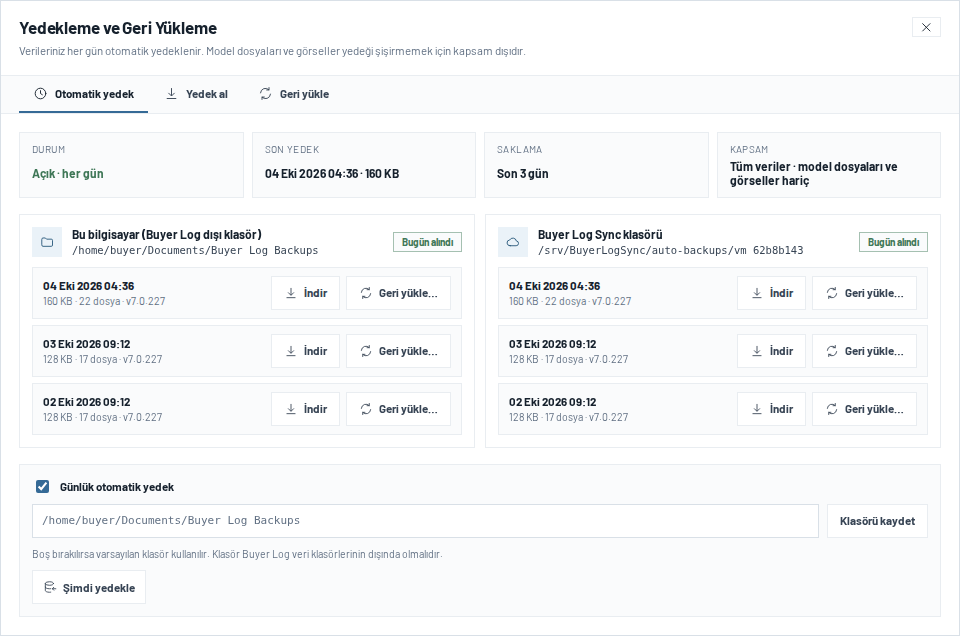
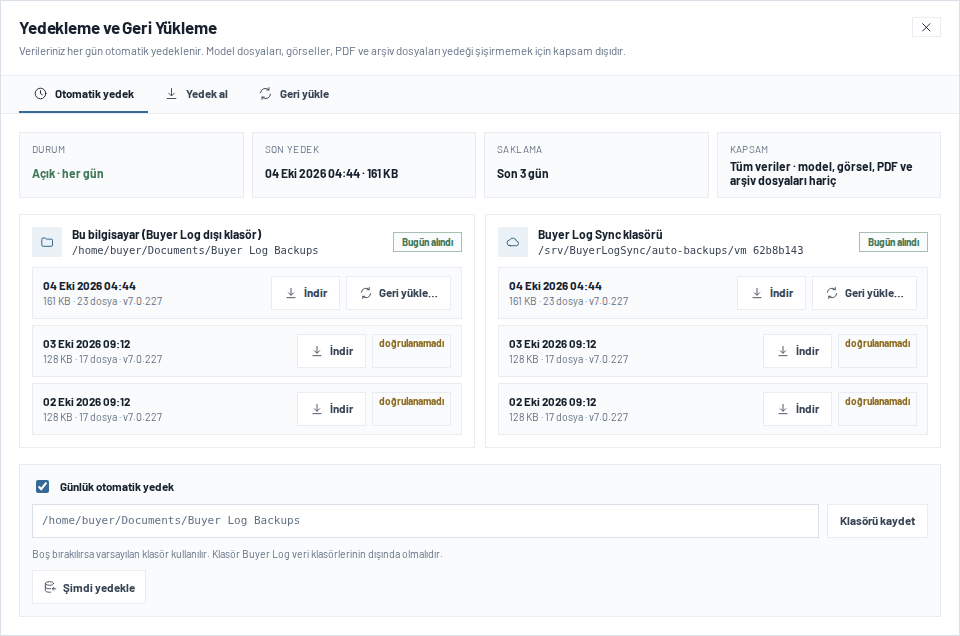
Harden backup/restore v2 after review
- Local DB, WAL and safety copies are one restore component and are always
  cleared together, so a live WAL can never be replayed over an older
  snapshot; selecting every area falls back to full mirror restore.
- Archive entries outside the backup scope (images/PDF/archives/cache in
  backups made before this change) are neither listed nor applied, so
  restore never writes files the rollback snapshot does not cover.
- Top-level matching is case-insensitive on Windows.
- Auto backup run/settings/download/restore-from-list are moderator-only;
  status hides folder paths and errors from other users.
- Restore-from-list accepts only archives this device produced, verified by
  the sha256 recorded at backup time (planted/tampered files are rejected).
- Personal backup folder must be local (no network share) and is
  re-validated on use; a full restore cannot start while an auto backup is
  running; settings changed during a run are no longer overwritten; a
  sync-only failure retries every 6h instead of hourly.
- UI/notes state that PDF and archive files are excluded as well.

Claude-Session: https://claude.ai/code/session_01KseQMyLJveKFWtzF5XKGiv

diff --git a/resources/app/public/backup-manager.js b/resources/app/public/backup-manager.js
@@ -131,6 +131,8 @@ function buyerLogBackupModal(options = {}) {
   document.getElementById('_buyerLogBackupModal')?.remove();
   const moderator = Boolean(window.BLIsModerator && window.BLIsModerator());
   const canManage = moderator || (typeof window.BLHasPermission === 'function' && window.BLHasPermission('manageBackup'));
+  // Otomatik yedek bu bilgisayarın tam sistem yedeğidir; yönetimi moderatöre aittir.
+  const autoManage = moderator;
   const st = buyerLogBackupFreshState();
   buyerLogBackupState.tab = options.tab || buyerLogBackupState.tab || 'auto';
   if (!moderator && !canManage) buyerLogBackupState.restoreKind = 'user';
@@ -153,7 +155,7 @@ function buyerLogBackupModal(options = {}) {
     if (!data.configured) body = `<div class="blBkEmpty">${key === 'sync' ? T('Buyer Log Sync klasörü bağlı değil. Data Management üzerinden Sync klasörünü seçtiğinizde yedekler buraya da yazılır.','Buyer Log Sync folder is not connected. Once you select it in Data Management, backups are written there too.') : T('Klasör hazırlanamadı.','Folder is not ready.')}</div>`;
     else if (data.error) body = `<div class="blBkEmpty is-error">${buyerLogBackupEsc(data.error)}</div>`;
     else if (!data.backups.length) body = `<div class="blBkEmpty">${T('Henüz otomatik yedek yok. İlk yedek bugün içinde otomatik alınır.','No automatic backup yet. The first one is taken automatically today.')}</div>`;
-    else body = `<ul class="blBkList">${data.backups.map(item => `<li><div class="blBkListMain"><b>${buyerLogBackupEsc(buyerLogBackupDate(item.createdAt))}</b><small>${buyerLogRestoreBytes(item.bytes)}${item.fileCount ? ` · ${Number(item.fileCount).toLocaleString()} ${T('dosya','files')}` : ''}${item.appVersion ? ` · v${buyerLogBackupEsc(item.appVersion)}` : ''}</small></div>${canManage ? `<div class="blBkListActions"><button class="tbtn" type="button" data-auto-download="${key}|${buyerLogBackupEsc(item.filename)}" title="${T('İndir','Download')}"><svg class="ic"><use href="#i-download"/></svg><span>${T('İndir','Download')}</span></button><button class="tbtn" type="button" data-auto-restore="${key}|${buyerLogBackupEsc(item.filename)}"><svg class="ic"><use href="#i-refresh"/></svg><span>${T('Geri yükle…','Restore…')}</span></button></div>` : ''}</li>`).join('')}</ul>`;
+    else body = `<ul class="blBkList">${data.backups.map(item => `<li><div class="blBkListMain"><b>${buyerLogBackupEsc(buyerLogBackupDate(item.createdAt))}</b><small>${buyerLogRestoreBytes(item.bytes)}${item.fileCount ? ` · ${Number(item.fileCount).toLocaleString()} ${T('dosya','files')}` : ''}${item.appVersion ? ` · v${buyerLogBackupEsc(item.appVersion)}` : ''}</small></div>${autoManage ? `<div class="blBkListActions"><button class="tbtn" type="button" data-auto-download="${key}|${buyerLogBackupEsc(item.filename)}" title="${T('İndir','Download')}"><svg class="ic"><use href="#i-download"/></svg><span>${T('İndir','Download')}</span></button>${item.verifiable ? `<button class="tbtn" type="button" data-auto-restore="${key}|${buyerLogBackupEsc(item.filename)}"><svg class="ic"><use href="#i-refresh"/></svg><span>${T('Geri yükle…','Restore…')}</span></button>` : `<em class="blBkBadge is-locked" title="${T('Bu cihaz tarafından üretildiği doğrulanamadı; indirip dosyadan geri yükleyebilirsiniz.','Could not be verified as produced by this device; download it and restore from file.')}">${T('doğrulanamadı','unverified')}</em>`}</div>` : ''}</li>`).join('')}</ul>`;
     const folder = data.folder ? `<code class="blBkPath" title="${buyerLogBackupEsc(data.folder)}">${buyerLogBackupEsc(data.folder)}</code>` : '';
     const ok = data.lastSuccessDay && st.auto.data && data.lastSuccessDay === st.auto.data.today;
     return `<article class="blBkTarget"><header><span class="blBkTargetIcon"><svg class="ic"><use href="#${icon}"/></svg></span><div><b>${title}</b>${folder}</div><span class="blBkPill ${ok ? 'is-ok' : (data.configured ? 'is-wait' : 'is-off')}">${ok ? T('Bugün alındı','Done today') : (data.configured ? T('Bekliyor','Pending') : T('Bağlı değil','Not connected'))}</span></header>${body}</article>`;
@@ -172,7 +174,7 @@ function buyerLogBackupModal(options = {}) {
         <div class="blBkStat"><span>${T('Durum','Status')}</span><b class="${data.enabled ? 'is-ok' : 'is-off'}">${data.enabled ? T('Açık · her gün','On · daily') : T('Kapalı','Off')}</b></div>
         <div class="blBkStat"><span>${T('Son yedek','Last backup')}</span><b>${buyerLogBackupEsc(lastText)}</b></div>
         <div class="blBkStat"><span>${T('Saklama','Retention')}</span><b>${T(`Son ${data.retentionDays} gün`, `Last ${data.retentionDays} days`)}</b></div>
-        <div class="blBkStat"><span>${T('Kapsam','Scope')}</span><b>${T('Tüm veriler · model dosyaları ve görseller hariç','All data · model files & images excluded')}</b></div>
+        <div class="blBkStat"><span>${T('Kapsam','Scope')}</span><b>${T('Tüm veriler · model, görsel, PDF ve arşiv dosyaları hariç','All data · model, image, PDF & archive files excluded')}</b></div>
       </div>
       ${lastErrors.length ? `<div class="blBkAlert is-error">${lastErrors.map(buyerLogBackupEsc).join('<br>')}</div>` : ''}
       ${a.message ? `<div class="blBkAlert">${buyerLogBackupEsc(a.message)}</div>` : ''}
@@ -180,12 +182,12 @@ function buyerLogBackupModal(options = {}) {
         ${autoTargetHtml('local', data.targets && data.targets.local, T('Bu bilgisayar (Buyer Log dışı klasör)','This computer (folder outside Buyer Log)'), 'i-folder')}
         ${autoTargetHtml('sync', data.targets && data.targets.sync, T('Buyer Log Sync klasörü','Buyer Log Sync folder'), 'i-cloud')}
       </div>
-      ${canManage ? `<div class="blBkSettings">
+      ${autoManage ? `<div class="blBkSettings">
         <label class="blBkSwitch"><input type="checkbox" data-auto-enabled ${data.enabled ? 'checked' : ''} ${a.busy ? 'disabled' : ''}/><span>${T('Günlük otomatik yedek','Daily automatic backup')}</span></label>
         <div class="blBkFolderRow"><input type="text" data-auto-folder placeholder="${buyerLogBackupEsc(data.defaultLocalFolder)}" value="${buyerLogBackupEsc(folderValue)}" aria-label="${T('Yedek klasörü','Backup folder')}"/><button class="tbtn" type="button" data-auto-folder-save ${a.busy ? 'disabled' : ''}>${T('Klasörü kaydet','Save folder')}</button></div>
         <small class="blBkHint">${T('Boş bırakılırsa varsayılan klasör kullanılır. Klasör Buyer Log veri klasörlerinin dışında olmalıdır.','Leave empty to use the default folder. The folder must be outside Buyer Log data folders.')}</small>
         <div class="blBkActions"><button class="navActionBtn" type="button" data-auto-run ${a.busy || data.running ? 'disabled' : ''}><svg class="ic"><use href="#i-database-import"/></svg><span>${a.busy || data.running ? T('Yedekleniyor…','Backing up…') : T('Şimdi yedekle','Back up now')}</span></button></div>
-      </div>` : `<div class="blBkHint">${T('Otomatik yedek ayarlarını yalnız yedek yönetme yetkisi olan kullanıcılar değiştirebilir.','Only users with backup permission can change automatic backup settings.')}</div>`}`;
+      </div>` : `<div class="blBkHint">${T('Otomatik yedek ayarlarını ve listeden geri yüklemeyi yalnız moderatör yönetebilir.','Only the moderator can manage automatic backup settings and restore from the list.')}</div>`}`;
   }
 
   // ---- Yedek al -----------------------------------------------------------
@@ -210,7 +212,7 @@ function buyerLogBackupModal(options = {}) {
           <div class="blBkActions"><button class="navActionBtn" type="button" data-backup-mode="user" ${b.busy ? 'disabled' : ''}><svg class="ic"><use href="#i-download"/></svg><span>${T('Verilerimi Yedekle','Back Up My Data')}</span></button></div>
         </article>
         <div class="blBkStack">
-          ${moderator ? `<article class="blBkCard"><header><b>${T('Tam Sistem Yedeği','Full System Backup')}</b></header><p class="blBkHint">${T('Bu bilgisayardaki tüm Buyer Log verisi, kullanıcı/rol yapısı ve ayarlar tek ZIP olarak indirilir. Model dosyaları ve görseller boyutu şişirmemek için yedeğe alınmaz.','All Buyer Log data on this computer, the user/role structure and settings are downloaded as one ZIP. Model files and images are excluded to keep the size small.')}</p><div class="blBkActions"><button class="tbtn" type="button" data-backup-mode="full" ${b.busy ? 'disabled' : ''}><svg class="ic"><use href="#i-database-import"/></svg><span>${T('Tam Sistem Yedeği','Full System Backup')}</span></button></div></article>` : ''}
+          ${moderator ? `<article class="blBkCard"><header><b>${T('Tam Sistem Yedeği','Full System Backup')}</b></header><p class="blBkHint">${T('Bu bilgisayardaki tüm Buyer Log verisi, kullanıcı/rol yapısı ve ayarlar tek ZIP olarak indirilir. Model dosyaları, görseller, PDF ve arşiv dosyaları boyutu şişirmemek için yedeğe alınmaz.','All Buyer Log data on this computer, the user/role structure and settings are downloaded as one ZIP. Model files, images, PDF and archive files are excluded to keep the size small.')}</p><div class="blBkActions"><button class="tbtn" type="button" data-backup-mode="full" ${b.busy ? 'disabled' : ''}><svg class="ic"><use href="#i-database-import"/></svg><span>${T('Tam Sistem Yedeği','Full System Backup')}</span></button></div></article>` : ''}
           <article class="blBkCard backupSharedPanel"><div><b>${T('Ortak kişisel yedek','Shared personal backup')}</b><div data-shared-personal-status>${buyerLogBackupEsc(sharedText)}</div></div><div class="backupRestoreActions"><button class="tbtn" type="button" data-shared-personal-now ${shared.busy ? 'disabled' : ''}>${T('Şimdi güncelle','Back up now')}</button>${sd && sd.available && sd.latest ? `<button class="tbtn" type="button" data-shared-personal-download>${T('Ortak yedeği indir','Download shared backup')}</button>` : ''}</div></article>
         </div>
       </div>
@@ -273,7 +275,7 @@ function buyerLogBackupModal(options = {}) {
     ];
     const scrollTop = modal.querySelector('.blBkBody') ? modal.querySelector('.blBkBody').scrollTop : 0;
     modal.innerHTML = `<div class="modalCard backupCard blBkCard2" role="dialog" aria-modal="true" aria-labelledby="_backupTitle">
-      <div class="backupHead"><div><div class="modalTitle" id="_backupTitle">${T('Yedekleme ve Geri Yükleme','Backup & Restore')}</div><div class="backupIntro">${T('Verileriniz her gün otomatik yedeklenir. Model dosyaları ve görseller yedeği şişirmemek için kapsam dışıdır.','Your data is backed up automatically every day. Model files and images are excluded to keep backups small.')}</div></div><button class="pricingRuleIconBtn _backupClose" type="button" aria-label="${T('Kapat','Close')}"><svg class="ic"><use href="#i-x"/></svg></button></div>
+      <div class="backupHead"><div><div class="modalTitle" id="_backupTitle">${T('Yedekleme ve Geri Yükleme','Backup & Restore')}</div><div class="backupIntro">${T('Verileriniz her gün otomatik yedeklenir. Model dosyaları, görseller, PDF ve arşiv dosyaları yedeği şişirmemek için kapsam dışıdır.','Your data is backed up automatically every day. Model files, images, PDF and archive files are excluded to keep backups small.')}</div></div><button class="pricingRuleIconBtn _backupClose" type="button" aria-label="${T('Kapat','Close')}"><svg class="ic"><use href="#i-x"/></svg></button></div>
       <div class="blBkTabs" role="tablist">${tabs.map(item => `<button type="button" role="tab" data-backup-tab="${item.id}" aria-selected="${tab === item.id}" class="${tab === item.id ? 'active' : ''}"><svg class="ic"><use href="#${item.icon}"/></svg><span>${item.label}</span></button>`).join('')}</div>
       <div class="backupBody blBkBody">${tab === 'auto' ? autoPanel() : tab === 'backup' ? backupPanel() : restorePanel()}</div>
     </div>`;

diff --git a/resources/app/server/lib/auto-backup.js b/resources/app/server/lib/auto-backup.js
@@ -19,11 +19,16 @@ const os = require('os');
 const crypto = require('crypto');
 const { safeId } = require('./backup-service');
 const { atomicCopy } = require('./shared-personal-backup');
+const { isNetworkPath } = require('./local-path-policy');
 
 const STATE_SCHEMA_VERSION = 1;
 const DEFAULT_RETENTION_DAYS = 3;
 const FILE_PATTERN = /^BuyerLog_AutoBackup_(\d{8})\.zip$/;
 const RETRY_AFTER_FAILURE_MS = 60 * 60 * 1000;
+// Yerel hedef bugün tamamsa ve yalnız Sync hedefi erişilemiyorsa tam yedeği
+// her saat yeniden üretmeyiz.
+const RETRY_SYNC_ONLY_MS = 6 * 60 * 60 * 1000;
+const PRODUCED_HISTORY = 12;
 const TARGETS = Object.freeze(['local', 'sync']);
 
 function autoBackupError(code, message, statusCode = 400) {
@@ -113,6 +118,9 @@ function createAutoBackupService({
       lastSuccessDay: state.lastSuccessDay && typeof state.lastSuccessDay === 'object' ? state.lastSuccessDay : {},
       lastAttemptAt: state.lastAttemptAt || null,
       lastRun: state.lastRun || null,
+      // Bu cihazın ürettiği yedeklerin sha256 kaydı: listeden geri yükleme yalnız
+      // doğrulanmış (bu cihazın yazdığı ve değişmemiş) dosyaları kabul eder.
+      produced: state.produced && typeof state.produced === 'object' ? state.produced : {},
     };
   }
   async function writeState(state) { await writeJsonAtomic(stateFile, { ...state, schemaVersion: STATE_SCHEMA_VERSION }); }
@@ -120,6 +128,7 @@ function createAutoBackupService({
   function validateLocalFolder(value) {
     const raw = String(value || '').trim();
     if (!raw) return '';
+    if (isNetworkPath(raw)) throw autoBackupError('AUTO_BACKUP_FOLDER_NETWORK', 'Kişisel yedek klasörü bu bilgisayarda yerel bir klasör olmalı; ağ klasörü seçilemez.');
     if (!path.isAbsolute(raw)) throw autoBackupError('AUTO_BACKUP_FOLDER_INVALID', 'Yedek klasörü tam (mutlak) bir yol olmalı.');
     const resolved = path.resolve(raw);
     for (const root of forbiddenRoots.filter(Boolean)) {
@@ -127,7 +136,12 @@ function createAutoBackupService({
     }
     return resolved;
   }
-  function effectiveLocalFolder(state) { return state.localFolder || defaultLocalFolder(homeDir); }
+  // Yedekten geri gelmiş ayar dosyası doğrulanmamış bir klasör taşıyabilir;
+  // her kullanımda yeniden doğrulanır, geçersizse varsayılana dönülür.
+  function effectiveLocalFolder(state) {
+    if (state.localFolder) { try { const folder = validateLocalFolder(state.localFolder); if (folder) return folder; } catch (_) {} }
+    return defaultLocalFolder(homeDir);
+  }
 
   async function syncFolder(requireWrite) {
     if (!syncSettings || !sharedHub) return { configured: false };
@@ -150,11 +164,12 @@ function createAutoBackupService({
     if (running) return running;
     if (isBlocked()) throw autoBackupError('AUTO_BACKUP_BLOCKED', 'Geri yükleme sürerken otomatik yedek alınamaz.', 409);
     running = (async () => {
-      const state = await readState();
+      const initial = await readState();
       const startedAt = now(), day = dayKey(startedAt), filename = backupFilename(day);
-      state.lastAttemptAt = startedAt.toISOString();
-      await writeState(state);
-      const results = {};
+      initial.lastAttemptAt = startedAt.toISOString();
+      await writeState(initial);
+      const results = {}, succeeded = {};
+      let lastRun = null, producedSha = '';
       let archive = null;
       try {
         archive = await backupService.create({
@@ -176,21 +191,32 @@ function createAutoBackupService({
             await writeJsonAtomic(path.join(resolved.folder, filename.replace(/\.zip$/i, '.json')), meta);
             const pruned = await pruneFolder(resolved.folder, retentionDays);
             results[target] = { ok: true, folder: resolved.folder, pruned };
-            state.lastSuccessDay[target] = day;
+            succeeded[target] = day;
+            producedSha = sha256;
           } catch (error) {
             results[target] = { ok: false, error: error && error.message || String(error), code: error && error.code || null };
             if (typeof logger === 'function') logger(`autoBackup:${target}`, error);
           }
         }
-        state.lastRun = { day, reason, startedAt: startedAt.toISOString(), finishedAt: now().toISOString(), bytes: meta.bytes, fileCount: meta.fileCount, results };
+        lastRun = { day, reason, startedAt: startedAt.toISOString(), finishedAt: now().toISOString(), bytes: meta.bytes, fileCount: meta.fileCount, results };
       } catch (error) {
         if (typeof logger === 'function') logger('autoBackup', error);
-        state.lastRun = { day, reason, startedAt: startedAt.toISOString(), finishedAt: now().toISOString(), error: error && error.message || String(error), results };
+        lastRun = { day, reason, startedAt: startedAt.toISOString(), finishedAt: now().toISOString(), error: error && error.message || String(error), results };
       } finally {
         if (archive && typeof archive.cleanup === 'function') await archive.cleanup().catch(() => {});
       }
+      // Çalışma sırasında yapılan ayar değişiklikleri (kapatma, klasör) ezilmesin:
+      // durum yeniden okunur, yalnız bu çalışmanın sonuçları birleştirilir.
+      const state = await readState();
+      Object.assign(state.lastSuccessDay, succeeded);
+      state.lastRun = lastRun;
+      if (producedSha) {
+        state.produced[filename] = producedSha;
+        const keys = Object.keys(state.produced).sort().reverse();
+        for (const key of keys.slice(PRODUCED_HISTORY)) delete state.produced[key];
+      }
       await writeState(state);
-      return state.lastRun;
+      return lastRun;
     })().finally(() => { running = null; });
     return running;
   }
@@ -212,7 +238,8 @@ function createAutoBackupService({
     }
     if (!missing.length) return false;
     const attemptedToday = lastAttempt && dayKey(new Date(lastAttempt)) === today;
-    return !attemptedToday || now().getTime() - lastAttempt >= RETRY_AFTER_FAILURE_MS;
+    const retryAfter = missing.length === 1 && missing[0] === 'sync' ? RETRY_SYNC_ONLY_MS : RETRY_AFTER_FAILURE_MS;
+    return !attemptedToday || now().getTime() - lastAttempt >= retryAfter;
   }
   async function tick() {
     try { if (await isDue()) await runNow({ reason: 'schedule' }); }
@@ -246,7 +273,7 @@ function createAutoBackupService({
       try {
         const resolved = await resolveTarget(target);
         targets[target] = resolved.configured
-          ? { configured: true, folder: resolved.folder, backups: await listFolder(resolved.folder), lastSuccessDay: state.lastSuccessDay[target] || null }
+          ? { configured: true, folder: resolved.folder, backups: (await listFolder(resolved.folder)).map(item => ({ ...item, verifiable: Boolean(state.produced[item.filename]) })), lastSuccessDay: state.lastSuccessDay[target] || null }
           : { configured: false, backups: [] };
       } catch (error) {
         targets[target] = { configured: true, available: false, error: error && error.message || String(error), backups: [] };
@@ -259,6 +286,17 @@ function createAutoBackupService({
     };
   }
 
+  // Listeden geri yükleme öncesi bütünlük: dosya bu cihazın ürettiği sha256 ile
+  // birebir aynı olmalı. Sync klasörüne başka biri tarafından bırakılmış ya da
+  // değiştirilmiş bir arşiv geri yükleme listesinden açılamaz.
+  async function resolveVerifiedBackupFile(target, filename) {
+    const file = await resolveBackupFile(target, filename);
+    const state = await readState();
+    const expected = state.produced[path.basename(file)];
+    if (!expected) throw autoBackupError('AUTO_BACKUP_UNVERIFIED', 'Bu yedek bu cihaz tarafından üretilmemiş veya kaydı yok; doğrulanamadığı için listeden geri yüklenemez. Dosyayı inceleyip "Dosyadan seç" ile yükleyebilirsiniz.', 409);
+    if (await sha256File(file) !== expected) throw autoBackupError('AUTO_BACKUP_TAMPERED', 'Yedek dosyası üretildikten sonra değişmiş; geri yükleme reddedildi.', 409);
+    return file;
+  }
   async function resolveBackupFile(target, filename) {
     const name = String(filename || '');
     if (!FILE_PATTERN.test(name) || path.basename(name) !== name) throw autoBackupError('AUTO_BACKUP_FILE_INVALID', 'Otomatik yedek dosya adı geçersiz.');
@@ -270,7 +308,7 @@ function createAutoBackupService({
     return file;
   }
 
-  return { runNow, isDue, tick, start, stop, status, updateSettings, resolveBackupFile, validateLocalFolder };
+  return { runNow, isDue, tick, start, stop, status, updateSettings, resolveBackupFile, resolveVerifiedBackupFile, validateLocalFolder, isRunning: () => Boolean(running) };
 }
 
 module.exports = { createAutoBackupService, dayKey, backupFilename, listFolder, pruneFolder, defaultLocalFolder, DEFAULT_RETENTION_DAYS, FILE_PATTERN };

diff --git a/resources/app/server/server.js b/resources/app/server/server.js
@@ -5670,6 +5670,8 @@ app.get('/api/backups/user-restore/:id/status', (req, res) => {
 app.post('/api/backups/restore/start', userAccess.requireArea('source'), userAccess.requirePermission('manageBackup'), (req, res) => {
   try {
     if (systemRestoreState.writeLocked || [...fullRestoreJobs.values()].some(job => !job.done)) return res.status(409).json({ error: 'Başka bir Full System Restore çalışıyor.', code: 'SYSTEM_RESTORE_IN_PROGRESS' });
+    // Yarım kalmış bir otomatik yedek, restore commit'i ile karışık bir arşiv üretmesin.
+    if (autoBackupService.isRunning()) return res.status(409).json({ error: 'Otomatik yedek alınıyor; tamamlanınca geri yüklemeyi yeniden başlatın.', code: 'AUTO_BACKUP_IN_PROGRESS' });
     const upload = fullRestoreUploadFor(req, req.body && req.body.uploadId);
     if (!upload) return res.status(404).json({ error: 'Restore için yüklenmiş backup bulunamadı.', code: 'RESTORE_UPLOAD_NOT_FOUND' });
     const createSafetyBackup = !(req.body && req.body.createSafetyBackup === false);
@@ -5839,21 +5841,29 @@ function autoBackupApiError(res, error, fallback) {
   if (status >= 500) logRuntimeFailure('autoBackupApi', error);
   return res.status(status).json({ error: error && error.message || fallback, code: error && error.code || 'AUTO_BACKUP_FAILED' });
 }
+// Klasör yolları ve hata ayrıntıları yalnız moderatöre gösterilir.
+function redactAutoBackupStatus(status, req) {
+  if (req.currentUser && req.currentUser.systemRole === 'moderator') return status;
+  const targets = {};
+  for (const [key, target] of Object.entries(status.targets || {})) targets[key] = { ...target, folder: undefined, error: target.error ? 'unavailable' : undefined };
+  const lastRun = status.lastRun ? { ...status.lastRun, error: status.lastRun.error ? 'failed' : undefined, results: Object.fromEntries(Object.entries(status.lastRun.results || {}).map(([key, item]) => [key, { ok: Boolean(item && item.ok), skipped: Boolean(item && item.skipped) }])) } : null;
+  return { ...status, localFolder: undefined, defaultLocalFolder: undefined, targets, lastRun };
+}
 app.get('/api/backups/auto/status', async (req, res) => {
-  try { res.json({ ok: true, ...(await autoBackupService.status()) }); }
+  try { res.json({ ok: true, ...redactAutoBackupStatus(await autoBackupService.status(), req) }); }
   catch (error) { autoBackupApiError(res, error, 'Otomatik yedek durumu okunamadı.'); }
 });
-app.post('/api/backups/auto/settings', userAccess.requirePermission('manageBackup'), async (req, res) => {
+app.post('/api/backups/auto/settings', userAccess.requireArea('source'), userAccess.requirePermission('manageBackup'), userAccess.requireModerator, async (req, res) => {
   try {
     const body = req.body || {};
     res.json({ ok: true, ...(await autoBackupService.updateSettings({ enabled: body.enabled, localFolder: body.localFolder })) });
   } catch (error) { autoBackupApiError(res, error, 'Otomatik yedek ayarları kaydedilemedi.'); }
 });
-app.post('/api/backups/auto/run', userAccess.requirePermission('manageBackup'), async (req, res) => {
+app.post('/api/backups/auto/run', userAccess.requireArea('source'), userAccess.requirePermission('manageBackup'), userAccess.requireModerator, async (req, res) => {
   try { res.json({ ok: true, lastRun: await autoBackupService.runNow({ reason: 'manual' }), status: await autoBackupService.status() }); }
   catch (error) { autoBackupApiError(res, error, 'Otomatik yedek alınamadı.'); }
 });
-app.get('/api/backups/auto/download', userAccess.requirePermission('manageBackup'), async (req, res) => {
+app.get('/api/backups/auto/download', userAccess.requireArea('source'), userAccess.requirePermission('manageBackup'), userAccess.requireModerator, async (req, res) => {
   try {
     const file = await autoBackupService.resolveBackupFile(String(req.query.target || ''), String(req.query.filename || ''));
     const stat = await fs.promises.stat(file);
@@ -5868,12 +5878,12 @@ app.get('/api/backups/auto/download', userAccess.requirePermission('manageBackup
 // Listeden geri yükleme: dosya yükleme gerekmez. Yedek önce geçici alana
 // kopyalanır (inceleme sırasında 3 günlük temizlik dosyayı silebilir), sonra
 // normal Full System Restore ön kontrolünden geçer.
-app.post('/api/backups/auto/restore/inspect', userAccess.requireArea('source'), userAccess.requirePermission('manageBackup'), async (req, res) => {
+app.post('/api/backups/auto/restore/inspect', userAccess.requireArea('source'), userAccess.requirePermission('manageBackup'), userAccess.requireModerator, async (req, res) => {
   let upload = null;
   try {
     if (systemRestoreState.writeLocked) return res.status(409).json({ error: 'Başka bir Full System Restore uygulanıyor.', code: 'SYSTEM_RESTORE_IN_PROGRESS' });
     const body = req.body || {};
-    const source = await autoBackupService.resolveBackupFile(String(body.target || ''), String(body.filename || ''));
+    const source = await autoBackupService.resolveVerifiedBackupFile(String(body.target || ''), String(body.filename || ''));
     const root = fs.mkdtempSync(path.join(TEMP_ROOT, 'buyerlog-upload-'));
     upload = { root, file: path.join(root, 'upload.blgbackup') };
     await fs.promises.copyFile(source, upload.file);

diff --git a/resources/app/server/lib/backup-scope.js b/resources/app/server/lib/backup-scope.js
@@ -76,7 +76,7 @@ const CATEGORIES = Object.freeze([
 
 // Ad → etiket. Uzantı yok sayılır; hem "settings.json" hem "settings" eşleşir.
 const BACKUP_COMPONENT_CATALOG = Object.freeze({
-  'BuyerLogLocal.db': { cat: 'core', tr: 'Yerel veritabanı (siparişler, kayıtlar)', en: 'Local database (orders, records)' },
+  'BuyerLogLocal.db': { cat: 'core', tr: 'Yerel veritabanı (siparişler, kayıtlar · günlük ve güvenlik kopyalarıyla)', en: 'Local database (orders, records · with journal and safety copies)' },
   'BuyerLogLocal.db.wal': { cat: 'core', tr: 'Yerel veritabanı günlüğü', en: 'Local database journal' },
   'BuyerLogLocal.db.bak': { cat: 'core', tr: 'Yerel veritabanı yedek kopyası', en: 'Local database safety copy' },
   'BuyerLogLocal.db.wal.bak': { cat: 'core', tr: 'Yerel veritabanı günlüğü yedek kopyası', en: 'Local database journal safety copy' },
@@ -108,7 +108,7 @@ const BACKUP_COMPONENT_CATALOG = Object.freeze({
 
   'shipping-comparison': { cat: 'orders', tr: 'Shipping Comparison', en: 'Shipping Comparison' },
   'checklist-supplier-sync': { cat: 'orders', tr: 'Checklist tedarikçi eşitlemesi', en: 'Checklist supplier sync' },
-  'checklist-attachments': { cat: 'orders', tr: 'Checklist ekleri (görseller hariç)', en: 'Checklist attachments (images excluded)' },
+  'checklist-attachments': { cat: 'orders', tr: 'Checklist ekleri (görsel/PDF hariç)', en: 'Checklist attachments (images/PDF excluded)' },
   'backlog-plan-actual': { cat: 'orders', tr: 'Backlog plan / gerçekleşen', en: 'Backlog plan / actual' },
   'oab-settings': { cat: 'orders', tr: 'OAB ayarları', en: 'OAB settings' },
   'oab-metadata': { cat: 'orders', tr: 'OAB meta verisi', en: 'OAB metadata' },
@@ -186,14 +186,42 @@ function humanize(name) {
  * Arşiv yolunu restore bileşenine çevirir. Bileşen = veri kökü + üst seviye
  * dosya/klasör. scopes: [{ id, prefix }] (full-restore-service scopeDefinitions).
  */
+// Yerel DB, WAL ve güvenlik kopyaları tek bileşendir: yalnız DB geri yüklenip
+// canlı WAL diskte kalırsa açılışta eski snapshot üstüne yeni işlemler
+// yeniden oynatılır ve hiç var olmamış karışık bir durum oluşur.
+const DB_FAMILY = 'BuyerLogLocal.db';
+function componentTop(top) {
+  const name = String(top || '');
+  return name === DB_FAMILY || name.startsWith(`${DB_FAMILY}.`) ? DB_FAMILY : name;
+}
+// Diskteki üst seviye ad bileşene ait mi? Windows dosya adları büyük/küçük
+// harf duyarsızdır.
+function topMatches(name, onlyTop, platform = process.platform) {
+  if (platform !== 'win32') return componentTop(name) === componentTop(onlyTop);
+  const fold = value => {
+    const lower = String(value || '').toLowerCase(), family = DB_FAMILY.toLowerCase();
+    return lower === family || lower.startsWith(`${family}.`) ? family : lower;
+  };
+  return fold(name) === fold(onlyTop);
+}
 function componentIdForArchivePath(archivePath, scopes) {
   const name = String(archivePath || '');
   if (SPECIAL_COMPONENTS[name]) return SPECIAL_COMPONENTS[name];
-  if (name === 'system/local/BuyerLogLocal.db') return 'localData/BuyerLogLocal.db';
+  if (name === 'system/local/BuyerLogLocal.db') return `localData/${DB_FAMILY}`;
   const scope = (scopes || []).find(item => name.startsWith(item.prefix));
   if (!scope) return null;
   const top = name.slice(scope.prefix.length).split('/')[0];
-  return top ? `${scope.id}/${top}` : null;
+  return top ? `${scope.id}/${componentTop(top)}` : null;
+}
+// Restore'un yazacağı/dokunacağı arşiv kaydı mı? Kapsam dışı (ağır/sır/önbellek)
+// kayıtlar eski yedeklerde bulunsa bile uygulanmaz; rollback onları
+// snapshot'lamadığı için yazılmaları geri alınamaz olurdu.
+function archivePathRestorable(archivePath, scopes) {
+  const name = String(archivePath || '');
+  if (SPECIAL_COMPONENTS[name] || name === 'system/local/BuyerLogLocal.db') return true;
+  const scope = (scopes || []).find(item => name.startsWith(item.prefix));
+  if (!scope) return false;
+  return !skipBackupFile(name.slice(scope.prefix.length), new Set(scope.excludeTop || []));
 }
 function describeComponent(id) {
   const key = String(id || '');
@@ -217,6 +245,7 @@ function describeComponent(id) {
 function componentsFromManifest(manifest, scopes) {
   const groups = new Map();
   for (const item of (manifest && Array.isArray(manifest.contents) ? manifest.contents : [])) {
+    if (!archivePathRestorable(item && item.path, scopes)) continue;
     const id = componentIdForArchivePath(item && item.path, scopes);
     if (!id) continue;
     const group = groups.get(id) || { ...describeComponent(id), fileCount: 0, bytes: 0, scopeLabelTr: '', scopeLabelEn: '' };
@@ -231,5 +260,5 @@ function componentsFromManifest(manifest, scopes) {
 
 module.exports = {
   BACKUP_EXCLUDED_TOP, HEAVY_ASSET_DIRS, CACHE_DIRS, HEAVY_EXT, CATEGORIES, BACKUP_COMPONENT_CATALOG, SPECIAL_COMPONENTS,
-  isHeavyBackupPath, skipBackupFile, componentIdForArchivePath, describeComponent, componentsFromManifest, catalogEntry,
+  isHeavyBackupPath, skipBackupFile, componentIdForArchivePath, archivePathRestorable, topMatches, componentTop, DB_FAMILY, describeComponent, componentsFromManifest, catalogEntry,
 };

diff --git a/resources/app/server/lib/full-restore-service.js b/resources/app/server/lib/full-restore-service.js
@@ -7,7 +7,7 @@ const crypto = require('crypto');
 const {
   inspectBackupArchive, readBackupJsonEntry, extractBackupArchive, BACKUP_VERSION, BACKUP_SCHEMA_VERSION,
 } = require('./backup-archive');
-const { skipBackupFile, BACKUP_EXCLUDED_TOP, CATEGORIES: COMPONENT_CATEGORIES, componentsFromManifest, componentIdForArchivePath } = require('./backup-scope');
+const { skipBackupFile, BACKUP_EXCLUDED_TOP, CATEGORIES: COMPONENT_CATEGORIES, componentsFromManifest, componentIdForArchivePath, archivePathRestorable, topMatches } = require('./backup-scope');
 const { createLocalDb, SCHEMA_VERSION: LOCAL_DB_SCHEMA_VERSION } = require('./local-db');
 const { isNetworkPath } = require('./local-path-policy');
 const prewipeMasterRecovery = require('./prewipe-master-recovery');
@@ -93,7 +93,7 @@ async function walkManaged(root, excludeTop = [], onlyTop = '') {
     try { dir = await fsp.opendir(current); } catch (_) { return; }
     for await (const item of dir) {
       const rel = relative ? `${relative}/${item.name}` : item.name;
-      if (onlyTop && !relative && item.name !== onlyTop) continue;
+      if (onlyTop && !relative && !topMatches(item.name, onlyTop)) continue;
       if (skipBackupFile(rel, excluded) || item.isSymbolicLink()) continue;
       const full = path.join(current, item.name);
       if (item.isDirectory()) await visit(full, rel);
@@ -188,6 +188,9 @@ function buildRestorePlan(scopes, manifest, components = null) {
     selected.add(id);
   }
   if (!selected.size) throw restoreError('RESTORE_SCOPE_EMPTY', 'Geri yüklenecek en az bir veri alanı seçin.');
+  // Tümü seçiliyse eski tam ayna davranışı: backup'ta olmayan üst seviye
+  // dosyalar da (ör. yedekten sonra oluşmuş WAL) temizlenir.
+  if (selected.size === availableIds.size) return buildRestorePlan(scopes, manifest, null);
   const touched = [];
   for (const id of selected) {
     if (SPECIAL_COMPONENT_IDS.has(id)) continue;
@@ -199,6 +202,7 @@ function buildRestorePlan(scopes, manifest, components = null) {
   return { mode: 'selective', selected, touched, available };
 }
 function planIncludes(plan, archivePath, scopes) {
+  if (!archivePathRestorable(archivePath, scopes)) return false;
   if (!plan || plan.mode === 'mirror') return true;
   return plan.selected.has(componentIdForArchivePath(archivePath, scopes));
 }
@@ -309,7 +313,7 @@ function walkManagedSync(root, excludeTop = [], onlyTop = '') {
   function visit(current, relative = '') {
     for (const item of fs.readdirSync(current, { withFileTypes: true })) {
       const rel = relative ? `${relative}/${item.name}` : item.name;
-      if (onlyTop && !relative && item.name !== onlyTop) continue;
+      if (onlyTop && !relative && !topMatches(item.name, onlyTop)) continue;
       if (skipBackupFile(rel, excluded) || item.isSymbolicLink()) continue;
       const full = path.join(current, item.name);
       if (item.isDirectory()) visit(full, rel);
@@ -422,7 +426,7 @@ function createFullRestoreService({ appVersion, roots, localDb, syncSettings, us
       excludedAssets: info.manifest.excluded_assets || null,
       autoBackup: Boolean(info.manifest.auto_backup),
     };
-    if (info.manifest.heavy_assets_excluded) warnings.push('Bu yedek model dosyalarını ve görselleri içermez; mevcut model dosyaları ve görseller restore sırasında korunur.');
+    if (info.manifest.heavy_assets_excluded) warnings.push('Bu yedek model dosyalarını, görselleri, PDF ve arşiv dosyalarını içermez; bu dosyaların mevcut halleri restore sırasında korunur.');
     // Keep the verified central-directory records for the same-process start
     // phase without serializing hundreds of thousands of records to the UI.
     Object.defineProperty(result, 'records', { value: info.records, enumerable: false });
